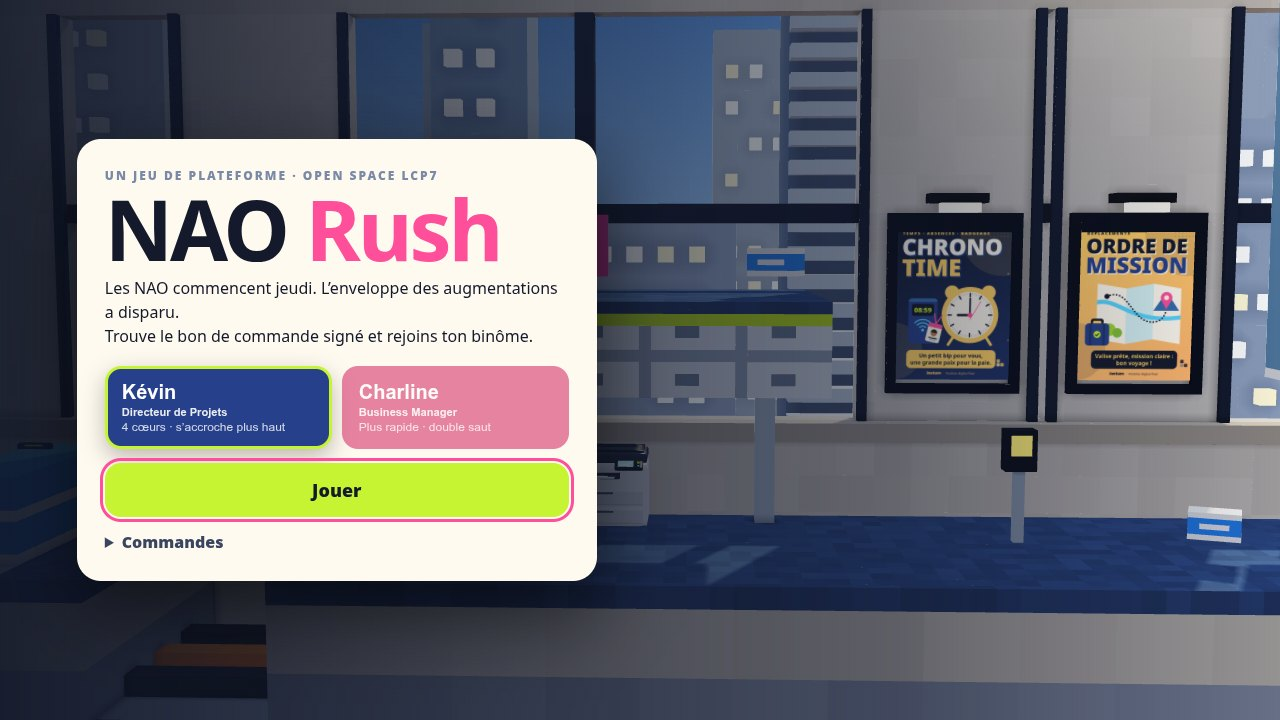
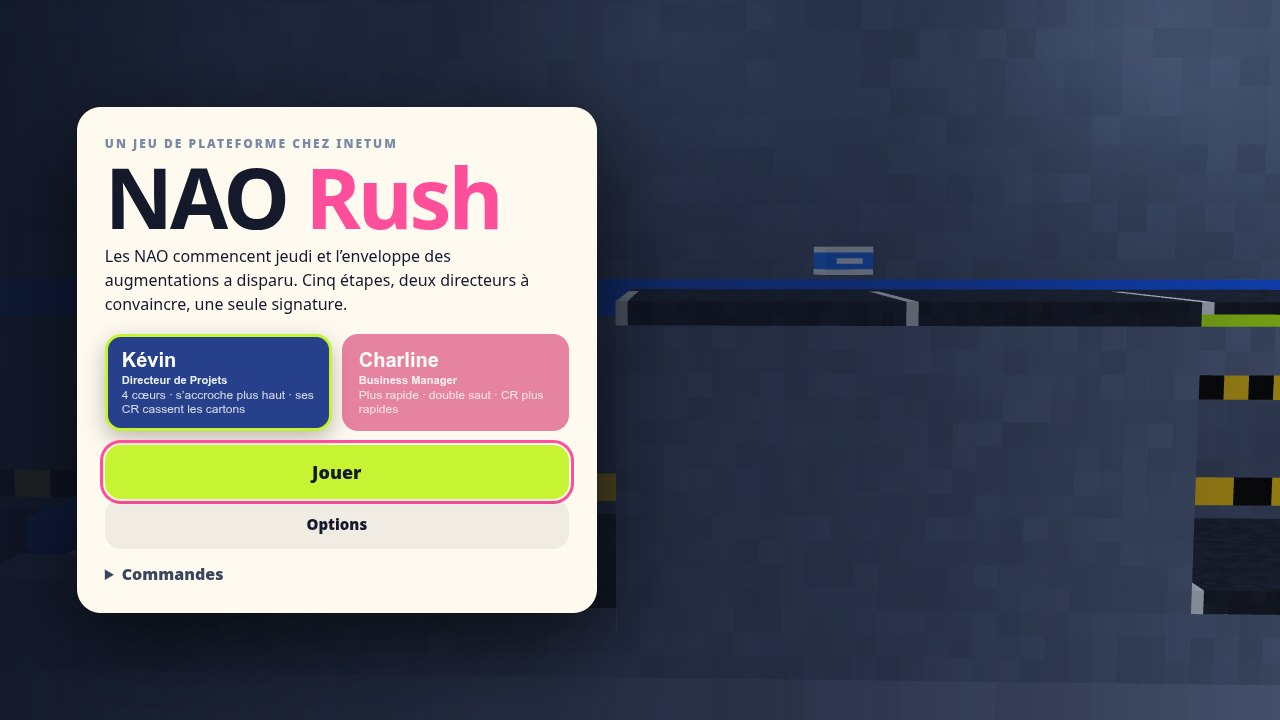
README for five stages and two bosses, stage-making guide, Node engines, new screenshots

diff --git a/scripts/screenshots.js b/scripts/screenshots.js
@@ -44,22 +44,51 @@ const start = async (stage) => {
 await start(0);
 await shot('dialogue');
 await skipTalk();
-await goto(41, 3);
-await shot('stage1');
+await goto(9, 4);
+await shot('stage-parking');
 
 await start(1);
 await skipTalk();
-await goto(26, 7);
-await shot('stage2');
-await goto(66, 3);
-await page.waitForTimeout(400);
-await skipTalk();
-await page.waitForTimeout(3500);
-await shot('boss');
+await page.waitForTimeout(3000);
+await goto(30, 3);
+await shot('stage-lcp7');
 
 await start(2);
 await skipTalk();
+await goto(13, 6);
+await shot('stage-ts');
+
+/** Starts the boss fight and lets it run into a given attack. @param {string} attack */
+const fight = async (attack) => {
+  await goto(86, 3);
+  await skipTalk();
+  await page.waitForFunction(
+    (a) =>
+      /** @type {any} */ (globalThis).__nao.sim.things.some(
+        (/** @type {any} */ t) => t.kind === 'boss' && t.state === a,
+      ),
+    attack,
+    { timeout: 60000 },
+  );
+  await page.evaluate(() => {
+    const h = /** @type {any} */ (globalThis).__nao.sim.hero;
+    Object.assign(h, { invuln: 99, hearts: 9 });
+  });
+  await page.waitForTimeout(700);
+};
+await fight('rackDrop');
+await shot('boss-julien');
+
+await start(3);
+await skipTalk();
+await goto(46, 4);
+await shot('stage-copil');
+
+await start(4);
+await skipTalk();
 await goto(41, 6);
-await shot('stage3');
+await shot('stage-rooftop');
+await fight('fan');
+await shot('boss-rodolphe');
 
 await browser.close();

diff --git a/README.md b/README.md
@@ -2,68 +2,94 @@
 
 **Un jeu de plateforme dans les bureaux d’Inetum, façon Rick Dangerous et Prince of Persia.**
 
-Les NAO commencent jeudi et l’enveloppe des augmentations a disparu. Avec Kévin ou Charline, traverse l’open space de LCP7, la salle serveurs de Technologies & Services et le rooftop du Power UP Tour pour la faire signer à temps.
+Les NAO commencent jeudi et l’enveloppe des augmentations a disparu. Avec Kévin ou Charline, traverse le parking, l’open space de LCP7, la salle serveurs de Technologies & Services, le comité de pilotage et le rooftop du Power UP Tour pour la faire signer à temps.
 
-▶ **[Jouer dans le navigateur](https://c0sm0cats.github.io/naorush/)** : PC, tablette et mobile, sans installation.
+▶ **[Jouer dans le navigateur](https://c0sm0cats.github.io/naorush/)** : PC, tablette et mobile, sans installation. Il faut un navigateur récent compatible WebGL2 (Chrome, Edge, Firefox, Safari 15 ou plus).
 
 ![Écran titre](docs/title.jpg)
 
-## Les trois étapes
+## Les cinq étapes
 
-|                                     |                                                                                                                                                                                                   |
-| ----------------------------------- | ------------------------------------------------------------------------------------------------------------------------------------------------------------------------------------------------- |
-| ![Open space LCP7](docs/stage1.jpg) | **1. Open space LCP7.** Dalles qui s’effondrent, câbles à nu, bonbonne d’eau en roue libre et un collègue en call qui bloque le couloir. Trouve le bon de commande signé.                         |
-| ![Salle serveurs](docs/stage2.jpg)  | **2. Technologies & Services.** Nacelles au-dessus d’une fosse à câbles, baies serveurs à escalader, passerelle fragile. Au bout : Julien, Directeur Technologies & Services Pays de la Loire.    |
-| ![Duel](docs/boss.jpg)              | **Les boss.** Ils lancent des slides KPI. Quand ils consultent PRIMO, leur garde tombe : c’est le moment de leur envoyer un compte rendu.                                                         |
-| ![Rooftop](docs/stage3.jpg)         | **3. Power UP Tour.** Le toit au coucher du soleil, des trous dans la toiture et la nacelle du laveur de vitres. Rodolphe, Directeur Région Ouest, attend à l’Espace VIP… avec des ondes de choc. |
+|                                               |                                                                                                                                                                                        |
+| --------------------------------------------- | -------------------------------------------------------------------------------------------------------------------------------------------------------------------------------------- |
+| ![Parking B2](docs/stage-parking.jpg)         | **1. Parking B2.** Le tutoriel : toits des voitures, premier rebord, collègue en call et badge visiteur à retrouver.                                                                   |
+| ![Open space LCP7](docs/stage-lcp7.jpg)       | **2. Open space LCP7.** Fauteuils qui roulent tout seuls, tiroirs qui claquent, dalles piégées, stagiaire pressé et bonbonne d’eau en roue libre. Objectif : le bon de commande signé. |
+| ![Technologies & Services](docs/stage-ts.jpg) | **3. Technologies & Services.** Nacelles au-dessus d’une fosse à câbles, baies serveurs, sprinklers, robot aspirateur et chef de projet en visio. Au bout : Julien.                    |
+| ![Comité de pilotage](docs/stage-copil.jpg)   | **4. Comité de pilotage.** Tables de réunion à arpenter, invitations qui volent bas, imprimantes en rafale. Il faut faire valider le compte rendu.                                     |
+| ![Power UP Tour](docs/stage-rooftop.jpg)      | **5. Power UP Tour.** Le toit au coucher du soleil, des trous dans la toiture et la nacelle du laveur de vitres. Rodolphe attend à l’Espace VIP.                                       |
 
 ![Dialogue](docs/dialogue.jpg)
 
+## Les boss
+
+|                                     |                                                                                                                                                                                                                                                                                         |
+| ----------------------------------- | --------------------------------------------------------------------------------------------------------------------------------------------------------------------------------------------------------------------------------------------------------------------------------------- |
+| ![Julien](docs/boss-julien.jpg)     | **Julien, Directeur Technologies & Services Pays de la Loire.** Calme, précis, redoutable. Il enchaîne des salves de slides KPI et fait descendre des baies serveurs (une ombre au sol prévient). En deuxième phase, il bascule sur son site de secours et met des câbles sous tension. |
+| ![Rodolphe](docs/boss-rodolphe.jpg) | **Rodolphe, Directeur Région Ouest.** Le grand show du Power UP Tour : slides lancées en éventail, sauts qui font trembler la scène et ondes de choc. En deuxième phase, une tournée régionale à toute allure (suis les flèches au sol) et des projecteurs qui balaient la scène.       |
+
+Quand un directeur consulte PRIMO, sa garde tombe : c’est le moment de lui envoyer un compte rendu. Une fois convaincu, il signe l’enveloppe : tout le monde gagne.
+
 ## Deux héros, deux façons de jouer
 
-- **Kévin, Directeur de Projets** : 4 cœurs, 6 comptes rendus, s’accroche plus haut.
-- **Charline, Business Manager** : plus rapide, double saut, des CR qui volent plus loin.
+|                          | Kévin, Directeur de Projets                 | Charline, Business Manager     |
+| ------------------------ | ------------------------------------------- | ------------------------------ |
+| Cœurs                    | 4                                           | 3                              |
+| Comptes rendus au départ | 6                                           | 5                              |
+| Saut                     | Simple, mais il s’accroche plus haut        | Double saut                    |
+| Course                   | Posée                                       | Plus rapide                    |
+| Comptes rendus           | Lourds : ils cassent les cartons d’archives | Plus rapides                   |
+| Secrets                  | Derrière les cartons d’archives             | Sur les rebords les plus hauts |
 
 ## Commandes
 
-| Action                          | Clavier | Mobile |
-| ------------------------------- | ------- | ------ |
-| Courir                          | ← →     | ◀ ▶    |
-| Sauter, s’accrocher à un rebord | Espace  | SAUT   |
-| Grimper, lire un tableau blanc  | ↑       | ▲      |
-| Lâcher le rebord                | ↓       | ▼      |
-| Lancer un compte rendu          | X       | CR     |
-| Pause                           | Échap   | ❚❚     |
+| Action                          | Clavier | Manette      | Mobile |
+| ------------------------------- | ------- | ------------ | ------ |
+| Courir                          | ← →     | Stick, croix | ◀ ▶    |
+| Sauter, s’accrocher à un rebord | Espace  | A            | SAUT   |
+| Grimper, lire un tableau blanc  | ↑       | Haut         | ▲      |
+| Lâcher le rebord                | ↓       | Bas          | ▼      |
+| Lancer un compte rendu          | X       | X ou B       | CR     |
+| Pause                           | Échap   | Start        | ❚❚     |
 
-Badge aux bornes Chronotime : en cas de pépin, tu repars de là. Les ramettes de papier rechargent tes comptes rendus. La progression est sauvegardée à chaque étape.
+Les touches se changent dans **Options**, avec aussi les volumes, les secousses, les flashs, le contraste élevé, les vibrations et la taille des boutons tactiles. Sur mobile, on peut glisser d’un bouton à l’autre sans lever le doigt.
+
+Badge aux bornes Chronotime : en cas de pépin, tu repars de là. Les ramettes de papier rechargent les comptes rendus, les cafés rendent un cœur. Chaque piège prévient (une secousse, un voyant, une goutte) et se répète à l’identique au deuxième essai. La progression est sauvegardée à chaque étape.
 
 ## Sous le capot
 
-- Moteur **WebGL2** écrit pour le jeu : ombres du soleil, lumières ponctuelles, occlusion ambiante, tonemapping ACES.
-- Décors en **voxels** (maillage glouton), personnages et accessoires en **géométrie lisse** procédurale.
-- Toutes les **affiches** Inetum sont dessinées en code (Canvas 2D), en haute résolution.
-- **Musique et bruitages** synthétisés en direct avec WebAudio, sans aucun fichier son.
-- **Simulation déterministe** à 60 Hz. Un solveur rejoue chaque étape avec les deux héros dans les tests : chaque niveau est prouvé finissable.
+- **Rendu** : moteur WebGL2 écrit pour le jeu (ombres du soleil, lumières ponctuelles, occlusion ambiante, tonemapping ACES).
+- **Géométrie** : décors en voxels (maillage glouton), personnages et accessoires en géométrie lisse procédurale.
+- **Images** : les affiches, les tableaux blancs des boss et les plaques sont dessinés en code (Canvas 2D).
+- **Son** : musique (un thème par étape et par boss, avec des couches qui montent pendant l’action) et bruitages synthétisés en direct avec WebAudio. Aucun fichier son.
+- **Simulation** : déterministe à 60 Hz. Un solveur rejoue chaque étape avec les deux héros dans les tests, et chaque niveau est prouvé finissable.
+
+### Prérequis
+
+Node.js 22.12 ou plus récent, et npm.
 
 ```sh
 npm install
 npm run dev          # http://localhost:5173
-npm run check        # lint, types, tests, build
-npm run smoke        # test de bout en bout (Playwright)
+npm run check        # lint, types, tests (dont le solveur), build
+npm run smoke        # test de bout en bout (Playwright, PC et mobile)
+npm run screenshots  # captures du README (avec npm run dev lancé)
 ```
 
-| Dossier          | Contenu                                                  |
-| ---------------- | -------------------------------------------------------- |
-| `src/game/`      | Simulation (physique, pièges, boss) et solveur           |
-| `src/gfx/`       | Rendu WebGL2, voxels, personnages, accessoires, affiches |
-| `src/app/`       | Caméra, entrées, HUD, scène, effets, audio               |
-| `src/data/`      | Étapes, distribution, contenus Inetum                    |
-| `tests/`, `e2e/` | Tests unitaires et de bout en bout                       |
+Pages de vérification en développement : `?sounds` pour écouter chaque musique et chaque bruitage, `?gallery` pour voir tous les personnages de près.
+
+| Dossier          | Contenu                                                                                                         |
+| ---------------- | --------------------------------------------------------------------------------------------------------------- |
+| `src/game/`      | Simulation : `world.js` (types, collisions), `sim.js` (héros), `traps.js`, `enemies.js`, `boss.js`, `solver.js` |
+| `src/gfx/`       | Rendu WebGL2, voxels, personnages, accessoires, affiches, tableaux                                              |
+| `src/app/`       | Scène, caméra, entrées, interface, effets, audio                                                                |
+| `src/data/`      | Étapes (`levels/`), distribution, répliques, contenus Inetum                                                    |
+| `tests/`, `e2e/` | Tests unitaires et de bout en bout                                                                              |
+| `docs/`          | Captures et [guide pour créer une étape](docs/CREER-UNE-ETAPE.md)                                               |
 
 Le déploiement sur GitHub Pages est automatique à chaque push sur `main`.
 
 ## Crédits
 
-Toutes les situations du jeu sont imaginaires : c’est un clin d’œil affectueux aux temps forts de la vie chez Inetum (badgeage Chronotime, tickets Swile, NAO, Power UP Tour…). Inetum est une marque de son propriétaire. Ce projet personnel n’est ni affilié à Inetum ni approuvé par elle.
+Toutes les situations du jeu sont imaginaires : c’est un clin d’œil affectueux aux temps forts de la vie chez Inetum (badgeage Chronotime, tickets Swile, NAO, comités de pilotage, Power UP Tour…). Inetum est une marque de son propriétaire. Ce projet personnel n’est ni affilié à Inetum ni approuvé par elle.
 
 Code sous licence [MIT](LICENSE).

diff --git a/docs/CREER-UNE-ETAPE.md b/docs/CREER-UNE-ETAPE.md
@@ -1,0 +1,69 @@
+# Créer une étape
+
+Une étape est un fichier de `src/data/levels/`, enregistré dans `LEVELS` de `src/data/levels/index.js`. Les tests la reprennent automatiquement : le solveur vérifie qu’elle est finissable avec Kévin et avec Charline.
+
+## 1. La carte
+
+12 lignes de même longueur, écrites de haut en bas. Une case fait un mètre et une salle fait 20 cases de large. Les lignes 10 et 11 (en bas) sont le sol du bâtiment, la ligne 9 est le sol où l’on marche, donc les héros se tiennent à la hauteur 3.
+
+| Caractère | Rôle |
+| --- | --- |
+| `#` | Structure (mur, sol, plafond, armoires) |
+| `M` `B` `V` `H` `Q` `Y` | Blocs solides habillés : salle vitrée, ramettes, baie serveur, clim, voiture, table de réunion |
+| `A` | Cartons d’archives : solides, les CR de Kévin les cassent |
+| `-` / `L` | Dalle qui s’effondre (visible) / trappe cachée |
+| `^` | Câbles à nu (retour au badge) |
+| `D` `p` | Porte et lecteur de badge qui l’ouvre |
+| `G` | Grille d’arène, fermée pendant un combat de boss |
+| `S` `C` `E` | Départ, borne Chronotime, sortie (il faut l’objet clé) |
+| `K` | Objet clé de l’étape (badge, bon de commande…) |
+| `$` `a` `h` | Ticket Swile, ramette (+3 CR), café (+1 cœur) |
+| `F` `O` | Dalle de plafond, classeurs qui tombent quand on passe dessous |
+| `R` | Bonbonne d’eau qui roule quand on prend la clé |
+| `c` `d` `w` `P` | Fauteuil roulant, tiroir (posé contre un mur), sprinkler (sous le plafond), imprimante |
+| `n` `i` `v` `z` | Collègue en call, stagiaire, robot aspirateur, chef de projet en visio |
+| `X` | Boss (avec `boss` dans la définition) |
+
+### Règles de level design
+
+- Un mur fait **1 case** (on saute) ou **au moins 3 cases** (on s’accroche) : 2 cases sont infranchissables pour Kévin, et un test le vérifie.
+- Le saut simple monte d’environ 1,7 case et porte à environ 3,5 cases. Kévin attrape un rebord jusqu’à environ 4,5 cases au-dessus de ses pieds, Charline encore plus haut grâce au double saut.
+- Un secret pour Charline : un rebord à 5 cases au-dessus du sol. Un secret pour Kévin : une niche fermée par des cartons `A`.
+- Chaque piège doit se voir venir. Les pièges périodiques (tiroir, sprinkler, imprimante) se décalent selon leur colonne.
+
+## 2. La définition
+
+```js
+/** @type {import('./index.js').Level} */
+export const MON_ETAPE = {
+  id: 'mon-etape',
+  theme: 'office', // 'office' | 'datacenter' | 'rooftop' | 'parking'
+  music: 'office', // voir TRACKS dans src/app/audio.js
+  name: 'Mon étape',
+  subtitle: 'Lieu · jour, heure',
+  keyLabel: 'Badge', // nom de l’objet clé dans le HUD
+  rooms: ['Salle 1', 'Salle 2'], // une par tranche de 20 cases
+  map: [/* 12 lignes */],
+  lifts: [{ x: 23, y: 3, top: 6, w: 2, period: 4 }], // optionnel
+  boss: { id: 'techServicesDirector', hp: 4, arena: [82, 98] }, // optionnel
+  decor: [
+    { type: 'poster', id: 'spark', x: 10, y: 4 },
+    { type: 'plant', x: 14, y: 3 },
+  ],
+  lighting: {/* soleil, ciel, brouillard, fond : copier une étape existante */},
+  intro: [{ who: 'partner', text: '…' }],
+  outro: [{ who: 'hero', text: '…' }],
+};
+```
+
+- **Décor** : affiches (`id` parmi `POSTER_LIST` de `src/gfx/posters.js`), tableaux blancs, bureaux et accessoires (`PROP_IDS` de `src/gfx/props.js`).
+- **Répliques** : `hero`, `partner` (l’autre héros), `boss`, `hint` (astuce) ou `narrator`.
+- **Lumière** : copier les valeurs d’une étape au thème proche, puis ajuster.
+
+## 3. Vérifier
+
+```sh
+npm run check
+```
+
+Si le solveur échoue, il indique où il est resté bloqué (`closest` dans `src/game/solver.js`). C’est presque toujours un saut trop long ou un mur de 2 cases.
